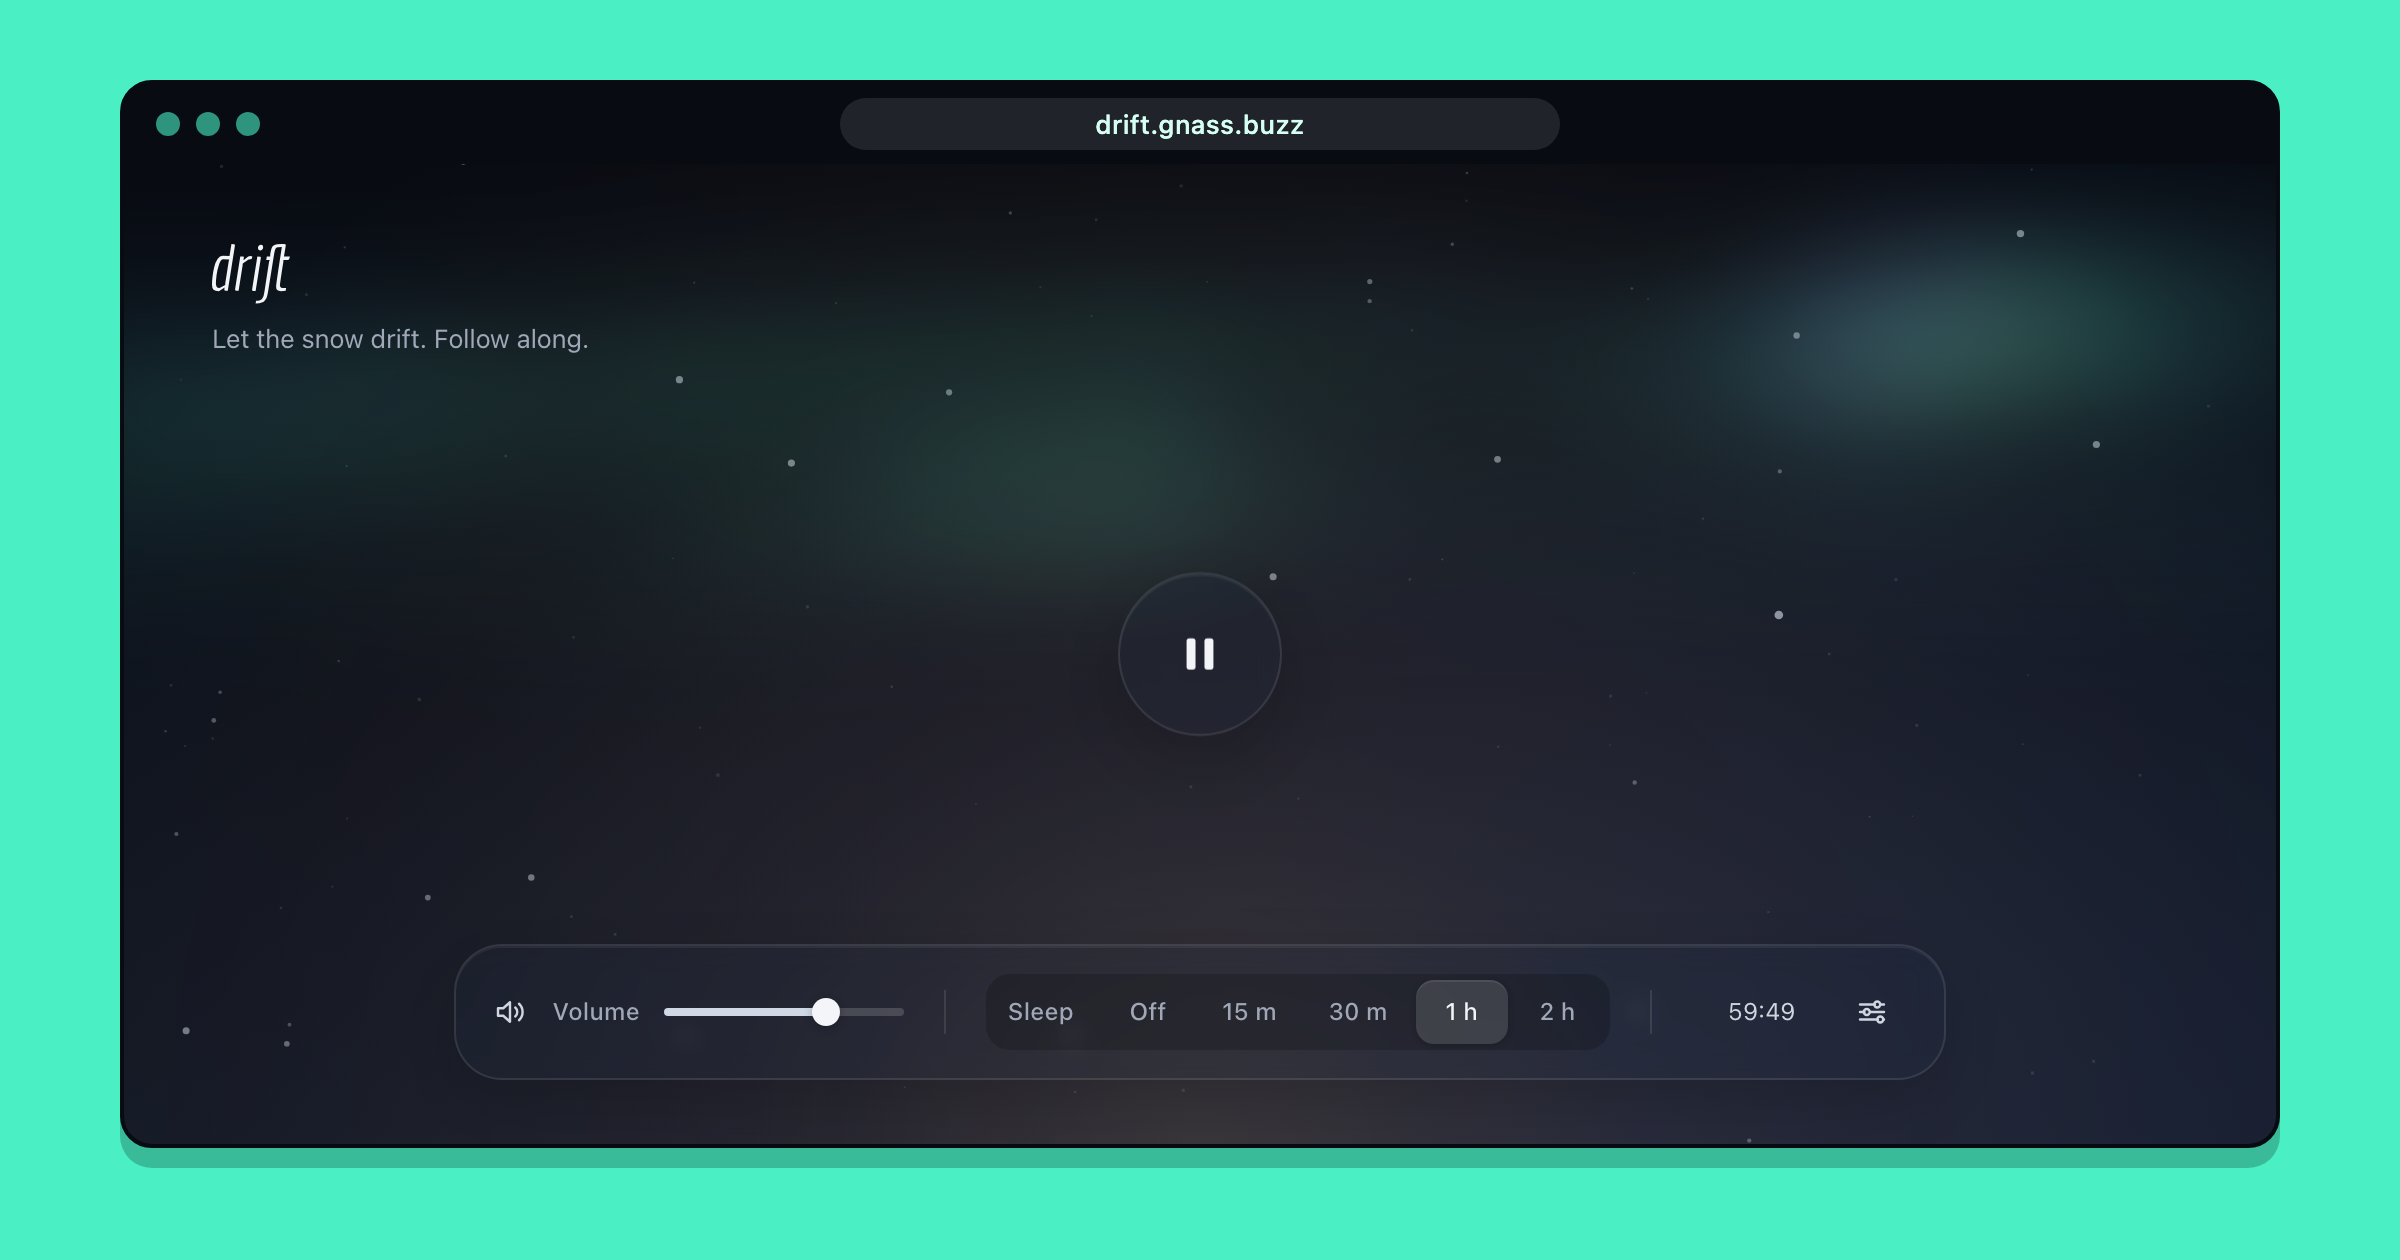
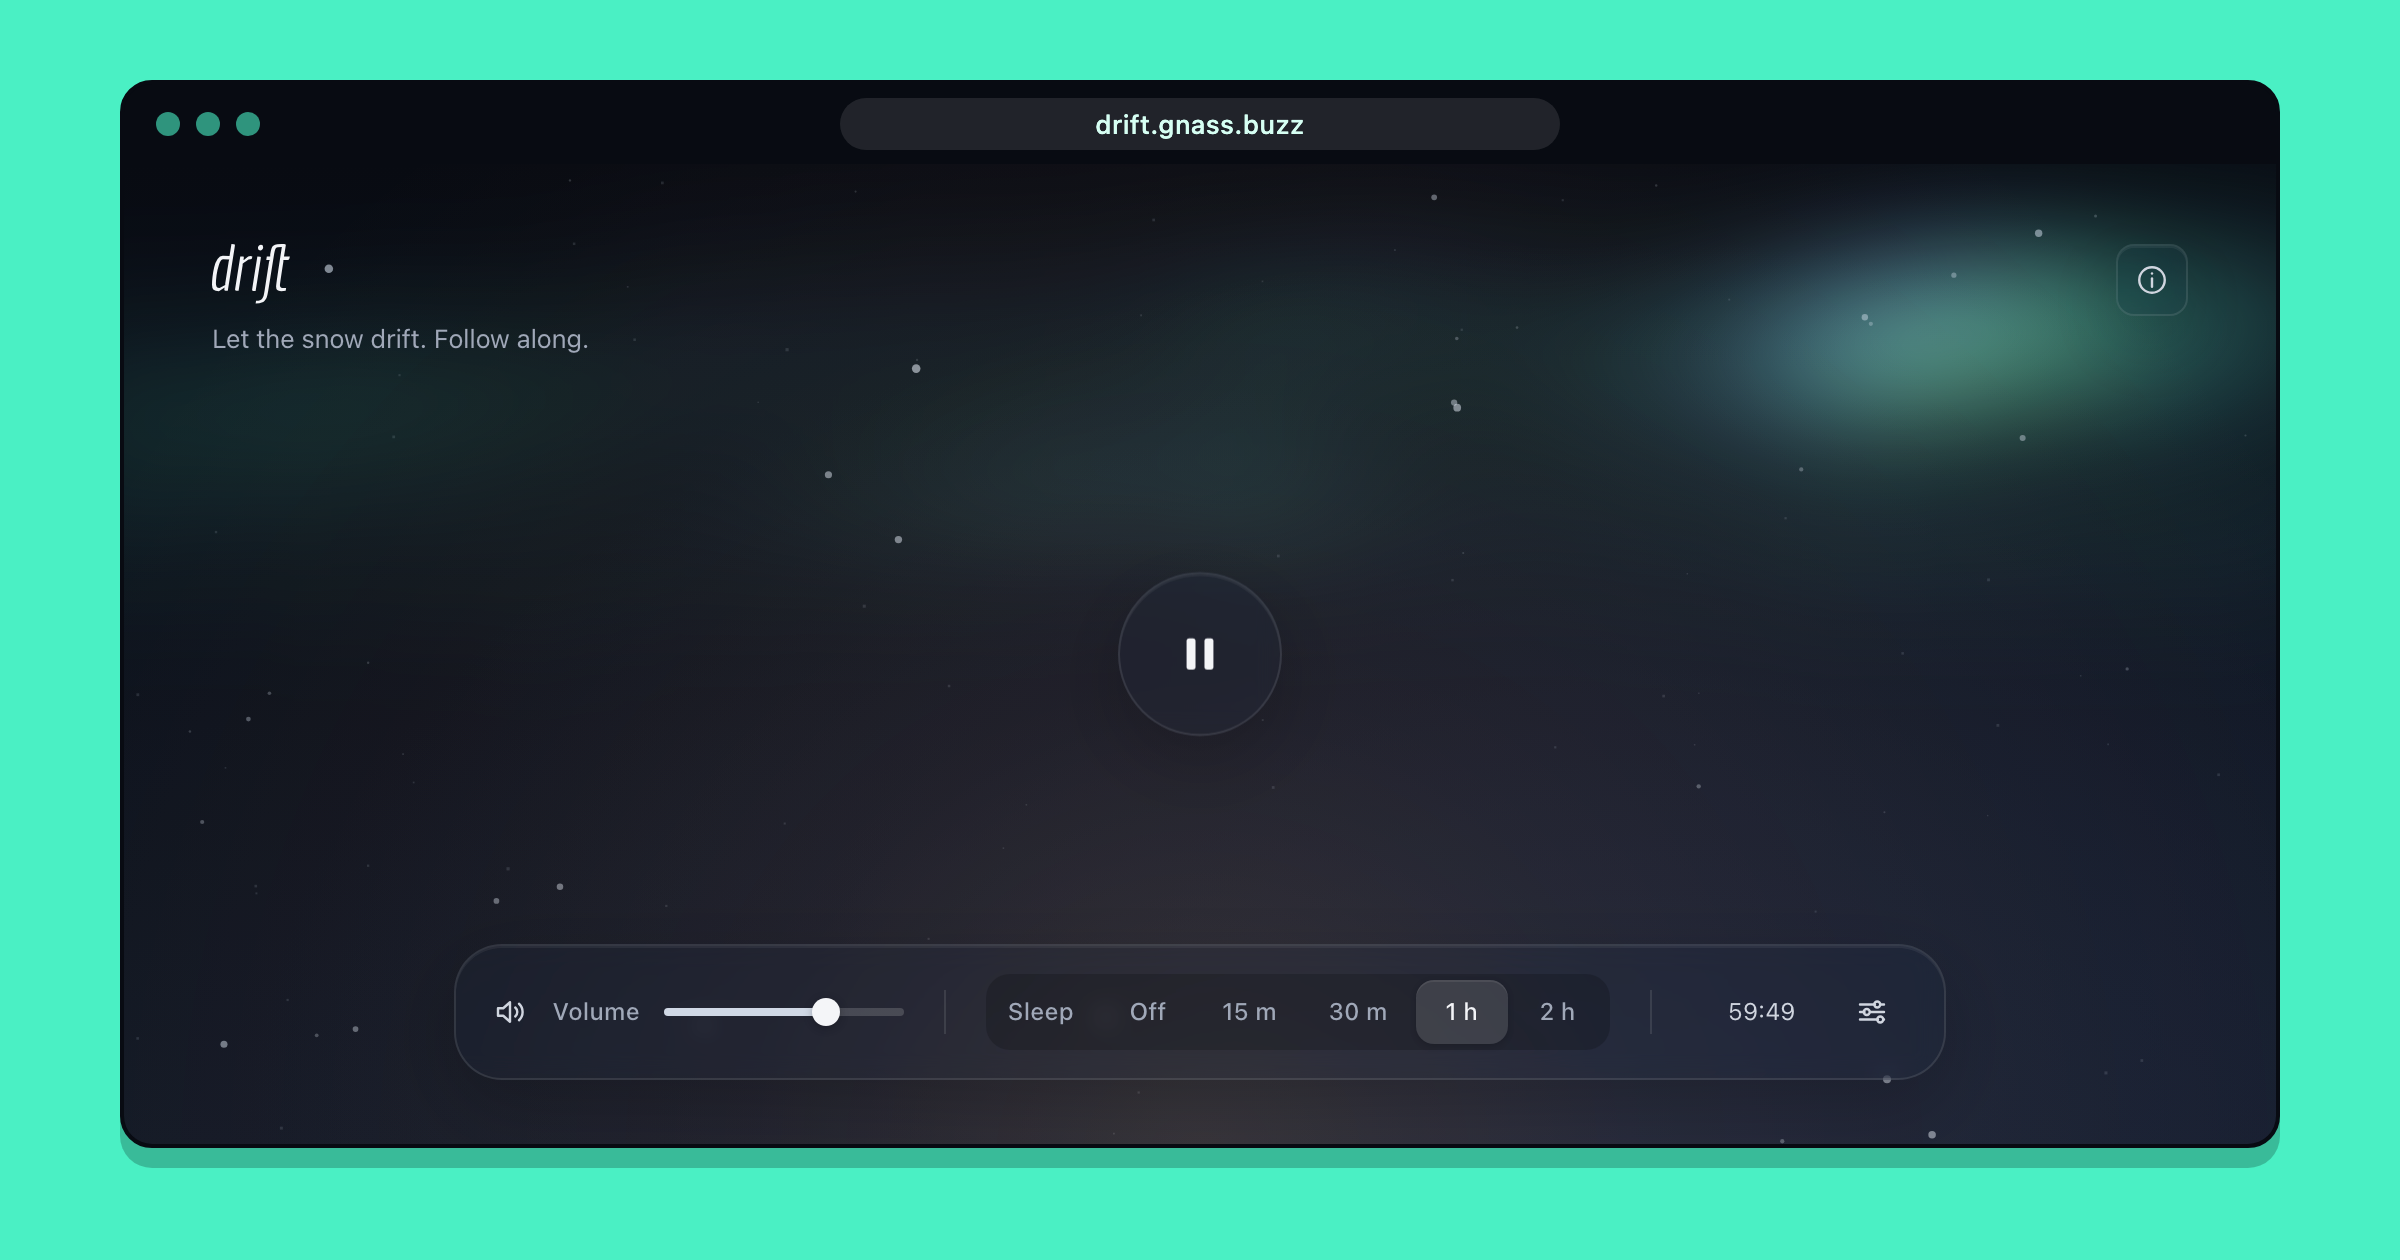
Info popover with links to the source and more projects, refresh the screenshots

Changed region(s): [[0.7188, 0.1857, 0.9375, 0.3714]]

diff --git a/src/style.css b/src/style.css
@@ -44,11 +44,30 @@ h1 { margin: 0; font-size: 32px; font-weight: 400; line-height: 1; }
 .lettering { display: block; width: auto; }
 .tagline { margin: 8px 0 0; color: var(--muted); font-size: 13px; letter-spacing: -.01em; }
 
-/* Only shown when the browser can install the app and it is not installed yet */
-.install {
+.corner {
   position: absolute;
   top: max(40px, env(safe-area-inset-top));
   right: max(44px, env(safe-area-inset-right));
+  display: flex; align-items: center; gap: 8px;
+}
+.info-toggle {
+  width: 36px; height: 36px;
+  padding: 0;
+  display: grid; place-items: center;
+  border: var(--glass-border);
+  border-radius: var(--radius-control);
+  background: var(--glass-fill);
+  backdrop-filter: var(--glass-blur);
+  -webkit-backdrop-filter: var(--glass-blur);
+  box-shadow: var(--glass-shadow);
+  color: var(--soft);
+  cursor: pointer;
+  transition: background .18s, color .18s;
+}
+.info-toggle svg { width: 18px; height: 18px; fill: none; stroke: currentColor; stroke-width: 1.6; stroke-linecap: round; }
+.info-toggle[aria-expanded="true"] { background: var(--glass-fill-active); color: var(--fg); }
+/* Only shown when the browser can install the app and it is not installed yet */
+.install {
   height: 36px;
   padding: 0 14px 0 12px;
   display: flex; align-items: center; gap: 8px;
@@ -92,7 +111,7 @@ h1 { margin: 0; font-size: 32px; font-weight: 400; line-height: 1; }
 .play[aria-pressed="true"] { animation: breathe 8s ease-in-out infinite; }
 @keyframes breathe { 50% { background: var(--glass-fill-active); } }
 .play:active { transform: scale(.96); }
-.play:focus-visible, .install:focus-visible, .chips button:focus-visible, .mixer-toggle:focus-visible, .mixer-reset:focus-visible, input:focus-visible {
+.play:focus-visible, .install:focus-visible, .chips button:focus-visible, .mixer-toggle:focus-visible, .mixer-reset:focus-visible, .info-toggle:focus-visible, .info-link:focus-visible, .hint a:focus-visible, input:focus-visible {
   outline: 2px solid var(--accent); outline-offset: 4px;
 }
 .status { position: absolute; left: 0; right: 0; bottom: 126px; margin: 0; text-align: center; color: var(--muted); font-size: 13px; }
@@ -157,11 +176,9 @@ h1 { margin: 0; font-size: 32px; font-weight: 400; line-height: 1; }
 }
 .mixer-toggle svg { width: 18px; height: 18px; fill: none; stroke: currentColor; stroke-width: 1.6; stroke-linecap: round; }
 .mixer-toggle[aria-expanded="true"] { background: rgba(255, 255, 255, .1); color: var(--fg); }
-/* Placed above the bar by app.js (left / top / width) */
-.mixer-panel {
+/* Popovers with the same glass as the bar, placed by app.js */
+.panel {
   position: fixed; inset: auto; margin: 0;
-  width: 300px;
-  transform: translateY(-100%);
   padding: 22px;
   overflow: visible;
   border-radius: var(--radius-panel);
@@ -172,8 +189,26 @@ h1 { margin: 0; font-size: 32px; font-weight: 400; line-height: 1; }
   box-shadow: var(--glass-shadow);
   color: var(--fg);
 }
+/* Above the bar (left / top / width) */
+.mixer-panel { width: 300px; transform: translateY(-100%); }
+/* Below the info button (top / right) */
+.info-panel { width: min(300px, calc(100vw - 32px)); }
+.info-panel .panel-title { margin-bottom: 6px; }
+.info-panel .hint { margin-bottom: 8px; }
+.info-panel .hint a { color: var(--soft); text-decoration: underline; text-decoration-color: rgba(255, 255, 255, .3); text-underline-offset: 2px; }
+.info-link {
+  display: block;
+  margin: 0 -12px; padding: 10px 12px;
+  border-radius: 12px;
+  color: var(--fg); font-size: 13px; text-decoration: none;
+  transition: background .18s;
+}
+.info-link:last-child { margin-bottom: -10px; }
+.info-link strong { display: block; font-weight: 600; }
+.info-link span { display: block; color: var(--muted); font-size: 12px; }
+.info-link strong::after { content: " ↗"; color: var(--muted); font-weight: 400; }
 .mixer-head { display: flex; align-items: center; justify-content: space-between; gap: 12px; margin: 0 0 6px; }
-.mixer-title { margin: 0; font-size: 14px; font-weight: 600; letter-spacing: -.015em; }
+.panel-title { margin: 0; font-size: 14px; font-weight: 600; letter-spacing: -.015em; }
 .mixer-reset {
   width: 28px; height: 28px; margin: -4px -6px -4px 0;
   border: 0; border-radius: var(--radius-control);
@@ -213,11 +248,14 @@ input[type="range"]::-moz-range-thumb { width: 14px; height: 14px; border: 0; bo
   .chips button[aria-checked="true"]:hover { background: rgba(255, 255, 255, .16); }
   .mixer-toggle:hover { background: rgba(255, 255, 255, .08); }
   .install:hover { background: var(--glass-fill-active); color: var(--fg); }
+  .info-toggle:hover { background: var(--glass-fill-active); color: var(--fg); }
+  .info-link:hover { background: rgba(255, 255, 255, .06); }
+  .info-panel .hint a:hover { color: var(--fg); text-decoration-color: currentColor; }
   .mixer-reset:not(:disabled):hover { background: rgba(255, 255, 255, .08); color: var(--fg); }
 }
 @media (max-width: 760px) {
   .brand { left: 28px; right: 28px; top: max(36px, calc(env(safe-area-inset-top) + 20px)); }
-  .install { right: 28px; top: max(36px, calc(env(safe-area-inset-top) + 20px)); }
+  .corner { right: 28px; top: max(36px, calc(env(safe-area-inset-top) + 20px)); }
   .bar {
     left: 16px; right: 16px;
     bottom: max(20px, calc(env(safe-area-inset-bottom) + 12px));

diff --git a/index.html b/index.html
@@ -34,10 +34,27 @@
         <p class="tagline">Let the snow drift. Follow along.</p>
       </header>
 
-      <button type="button" id="install" class="install" hidden>
-        <svg viewBox="0 0 24 24" aria-hidden="true"><path d="M12 4v11" /><path d="M7.5 10.5 12 15l4.5-4.5" /><path d="M5 19h14" /></svg>
-        Install
-      </button>
+      <nav class="corner" aria-label="Links">
+        <button type="button" id="install" class="install" hidden>
+          <svg viewBox="0 0 24 24" aria-hidden="true"><path d="M12 4v11" /><path d="M7.5 10.5 12 15l4.5-4.5" /><path d="M5 19h14" /></svg>
+          Install
+        </button>
+        <button type="button" id="info-toggle" class="info-toggle" popovertarget="info-panel" aria-label="About" aria-expanded="false">
+          <svg viewBox="0 0 24 24" aria-hidden="true"><circle cx="12" cy="12" r="8.5" /><path d="M12 11v5.5" /><path d="M12 7.6v.1" /></svg>
+        </button>
+        <div id="info-panel" class="panel info-panel" popover>
+          <h2 class="panel-title">About drift</h2>
+          <p class="hint">A blizzard that is synthesized live in your browser, so it never loops. Made by <a href="https://gnass.buzz/" target="_blank" rel="noopener">Felix Gnass</a>.</p>
+          <a class="info-link" href="https://github.com/fgnass/drift" target="_blank" rel="noopener">
+            <strong>Open Source</strong>
+            <span>See how the storm is made. MIT license, on GitHub.</span>
+          </a>
+          <a class="info-link" href="https://gnass.buzz/projects/" target="_blank" rel="noopener">
+            <strong>More projects</strong>
+            <span>Other little apps like this one.</span>
+          </a>
+        </div>
+      </nav>
 
       <button id="play" class="play" aria-label="Play" aria-pressed="false">
         <svg class="icon-play" viewBox="0 0 22 22" aria-hidden="true"><path d="M6.5 5.6c0-1.2 1.3-1.9 2.3-1.3l9 5.4c1 .6 1 2 0 2.6l-9 5.4c-1 .6-2.3-.1-2.3-1.3z" /></svg>
@@ -74,9 +91,9 @@
           </button>
           <!-- A popover: the top layer escapes the backdrop root of the bar,
                so the panel can have the same glass as the bar. -->
-          <div id="mixer-panel" class="mixer-panel" popover>
+          <div id="mixer-panel" class="panel mixer-panel" popover>
             <div class="mixer-head">
-              <h2 class="mixer-title">Sound mix</h2>
+              <h2 class="panel-title">Sound mix</h2>
               <button type="button" id="mixer-reset" class="mixer-reset" aria-label="Reset to defaults" title="Reset to defaults">
                 <svg viewBox="0 0 24 24" aria-hidden="true"><path d="M4.5 12a7.5 7.5 0 1 0 2.2-5.3" /><path d="M4.5 4.5v4.2h4.2" /></svg>
               </button>

diff --git a/src/app.js b/src/app.js
@@ -309,8 +309,23 @@ mixerPanel.addEventListener("beforetoggle", (e) => {
   mixerToggle.setAttribute("aria-expanded", String(open));
   if (open) placeMixer();
 });
+
+// The info panel opens below its button, aligned with its right edge
+const infoToggle = $("#info-toggle");
+const infoPanel = $("#info-panel");
+function placeInfo() {
+  const r = infoToggle.getBoundingClientRect();
+  infoPanel.style.top = `${r.bottom + 12}px`;
+  infoPanel.style.right = `${document.documentElement.clientWidth - r.right}px`;
+}
+infoPanel.addEventListener("beforetoggle", (e) => {
+  const open = e.newState === "open";
+  infoToggle.setAttribute("aria-expanded", String(open));
+  if (open) placeInfo();
+});
 addEventListener("resize", () => {
   if (mixerPanel.matches(":popover-open")) placeMixer();
+  if (infoPanel.matches(":popover-open")) placeInfo();
 });
 
 for (const chip of chips) {
@@ -337,7 +352,9 @@ function wake() {
   idleTimeout = setTimeout(() => {
     if (!playing) return;
     document.body.classList.add("idle");
-    mixerPanel.hidePopover(); // the top layer does not dim with the rest
+    // The top layer does not dim with the rest
+    mixerPanel.hidePopover();
+    infoPanel.hidePopover();
   }, 15000);
 }
 for (const type of ["pointermove", "pointerdown", "keydown", "focusin"]) {
